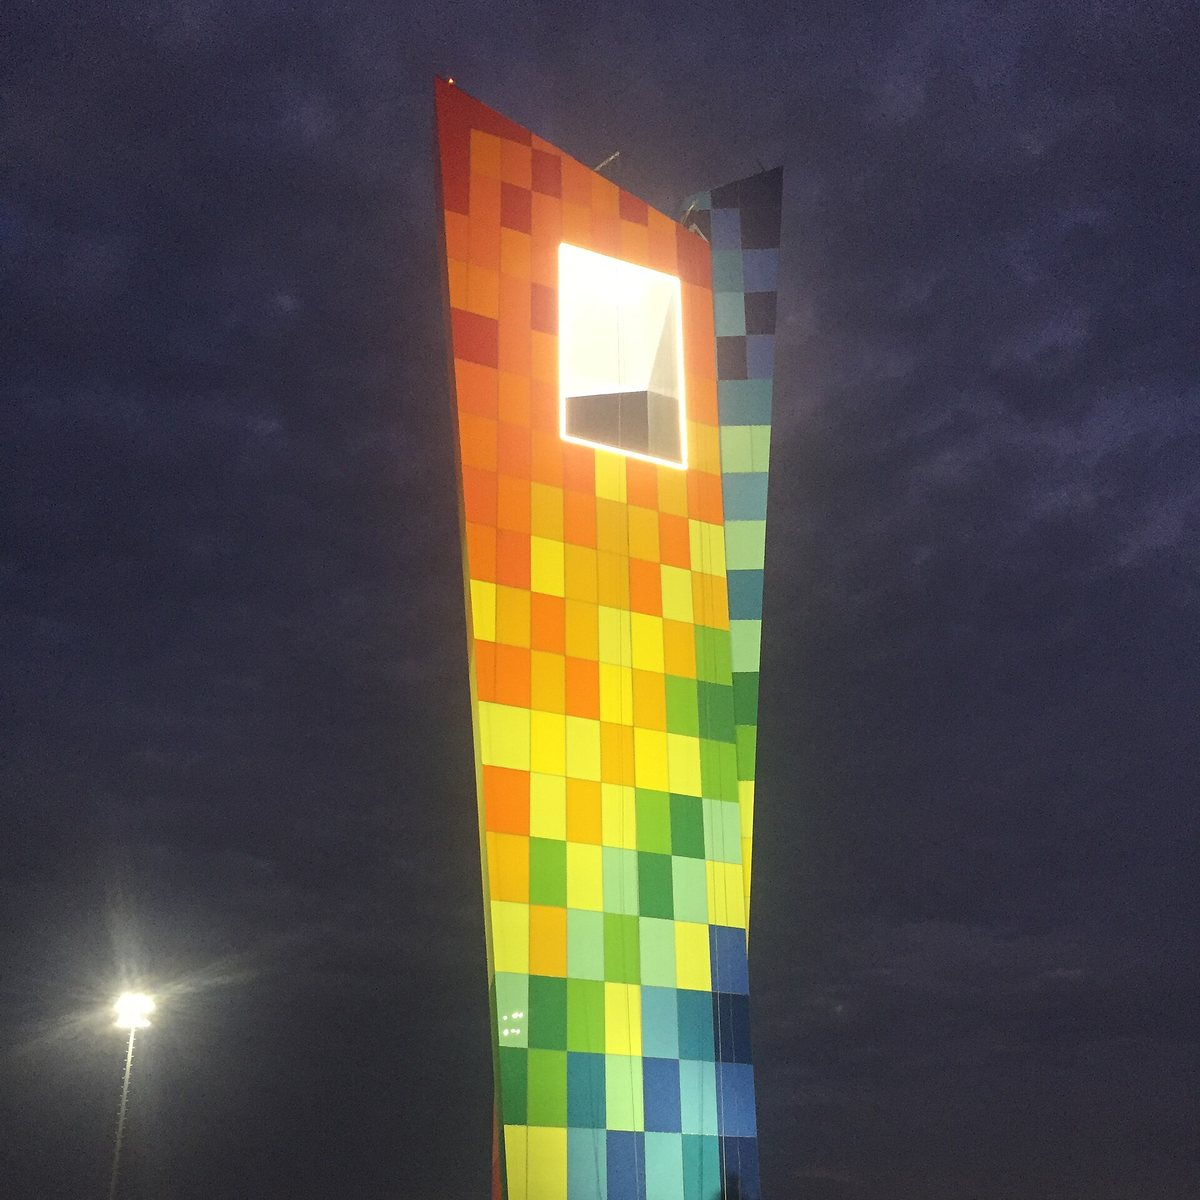
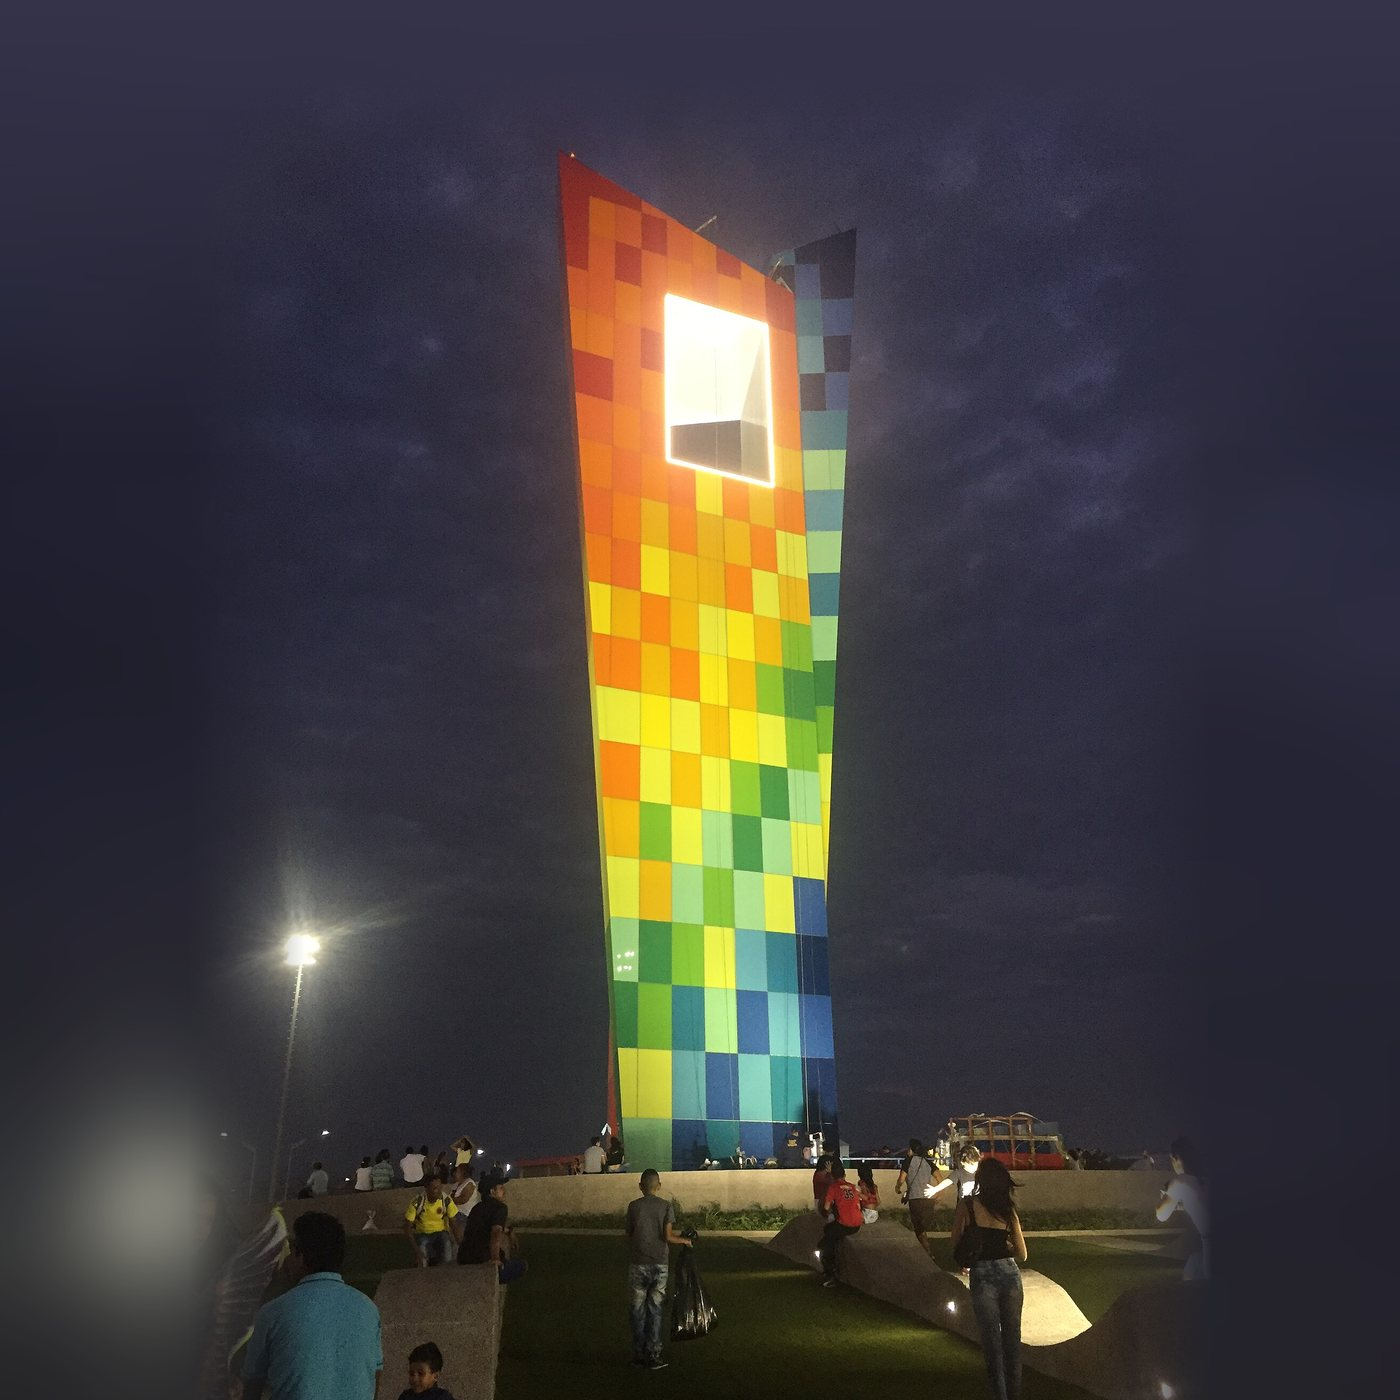
fix(simposio): la Ventana al Mundo se ve completa en el círculo de la portada
La foto vertical quedaba cortada arriba y abajo. Se le añade cielo a los lados
(la misma foto, difuminada) para que el monumento entero quepa en el círculo,
y se reduce el sobrante que usaba el efecto de profundidad al hacer scroll.

diff --git a/static/css/simposio.css b/static/css/simposio.css
@@ -107,7 +107,7 @@ body.sp-body {
 .sp-kv-svg { position: absolute; inset: 0; width: 100%; height: 100%; overflow: visible; pointer-events: none; }
 .sp-kv-photo { position: absolute; inset: 13%; border-radius: 50%; overflow: hidden; background: var(--sp-night-2);
     box-shadow: 0 0 0 1.5px rgba(244,195,67,.75), 0 0 0 14px rgba(255,255,255,.05), 0 40px 90px rgba(0,0,0,.55); }
-.sp-kv-photo img { position: absolute; left: 0; top: -3%; width: 100%; height: 116%; object-fit: cover; object-position: 50% 40%; }
+.sp-kv-photo img { position: absolute; left: 0; top: -3%; width: 100%; height: 106%; object-fit: cover; object-position: 50% 50%; }
 .sp-kv-photo::after { content: ""; position: absolute; inset: 0; border-radius: 50%; background: radial-gradient(circle at 50% 45%, transparent 60%, rgba(7,28,51,.5) 100%); }
 .sp-ring { fill: none; stroke: rgba(255,255,255,.2); stroke-width: 1; stroke-dasharray: 2 9; vector-effect: non-scaling-stroke; }
 .sp-orbit { fill: none; stroke: rgba(255,255,255,.5); stroke-width: 1.25; vector-effect: non-scaling-stroke; }

diff --git a/static/js/simposio.js b/static/js/simposio.js
@@ -186,7 +186,7 @@
 
     /* Scroll-linked depth */
     var heroScroll = { trigger: '.sp-hero', start: 'top top', end: 'bottom top', scrub: true };
-    gsap.to('.sp-kv-photo img', { yPercent: 6, ease: 'none', scrollTrigger: heroScroll });
+    gsap.to('.sp-kv-photo img', { yPercent: 3, ease: 'none', scrollTrigger: heroScroll });
     gsap.to('.sp-kv-svg', { rotation: 16, ease: 'none', scrollTrigger: heroScroll });
     all('[data-parallax] img').forEach(function (image) {
         gsap.fromTo(image, { yPercent: -5 }, {
